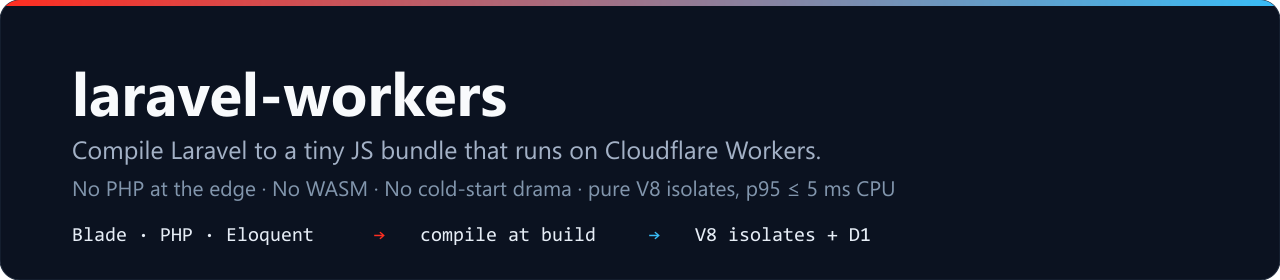
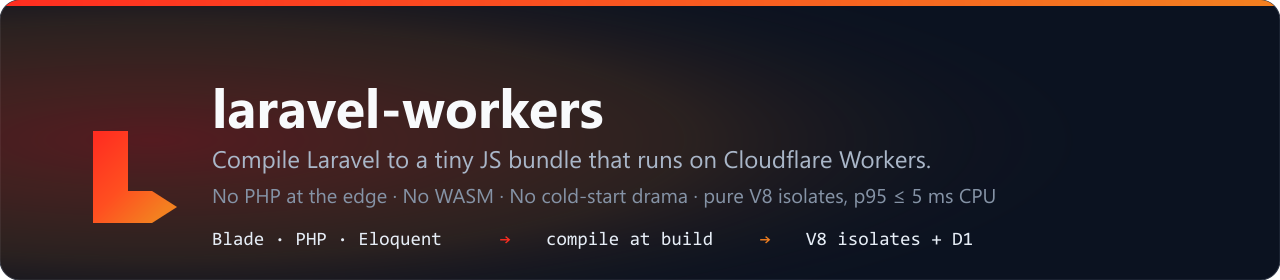
brand(docs): the Laravel L with an edge arrow, in Laravel red -> Workers orange
New mark docs/logo.svg (+ .png): Laravel's L, sharp-cornered, its foot ending in
an arrowhead. Palette is exactly the two brands the tool joins - #ff2d20 at the
stem (PHP), #f38020 at the arrowhead (the edge) - so the cyan accent is gone from
banner.svg and social-preview.svg; both keep the warm radial wash and the red to
orange top rule, and both re-use the mark as a transformed group so it cannot
drift from docs/logo.svg.

PNGs re-rasterised with sharp-cli (the documented on-demand path).

diff --git a/CHANGELOG.md b/CHANGELOG.md
@@ -2,6 +2,16 @@
 The change-by-change record of laravel-workers (M1–M70 and the A-series audit findings). Current status and construct coverage live in the [README](README.md).
 ## Unreleased
 
+### Brand — the mark is the Laravel L, its foot ending in an edge arrow
+
+`docs/logo.svg` (+ `.png`) is the project mark, and `docs/banner.svg` /
+`docs/social-preview.svg` now carry it next to the wordmark. The palette is the two
+brands the tool joins, and nothing else: Laravel `#ff2d20` at the stem (the PHP side),
+Cloudflare Workers `#f38020` at the arrowhead (the edge). The hero keeps the warm
+radial wash and the red→orange top rule; the gradient runs `#ff2d20 → #ff4f20 → #f38020`,
+so the old cyan (`#38bdf8`) is gone. Marks are re-used as transformed groups rather
+than redrawn, so the logo and the hero cannot drift.
+
 ### CI — Verdict, the reporter for `READINESS`, and the official app workflows
 `build --strict` says whether the app compiles; it does not say which routes are
 served and which gaps ship. `action/verdict` turns the build log into one sticky
